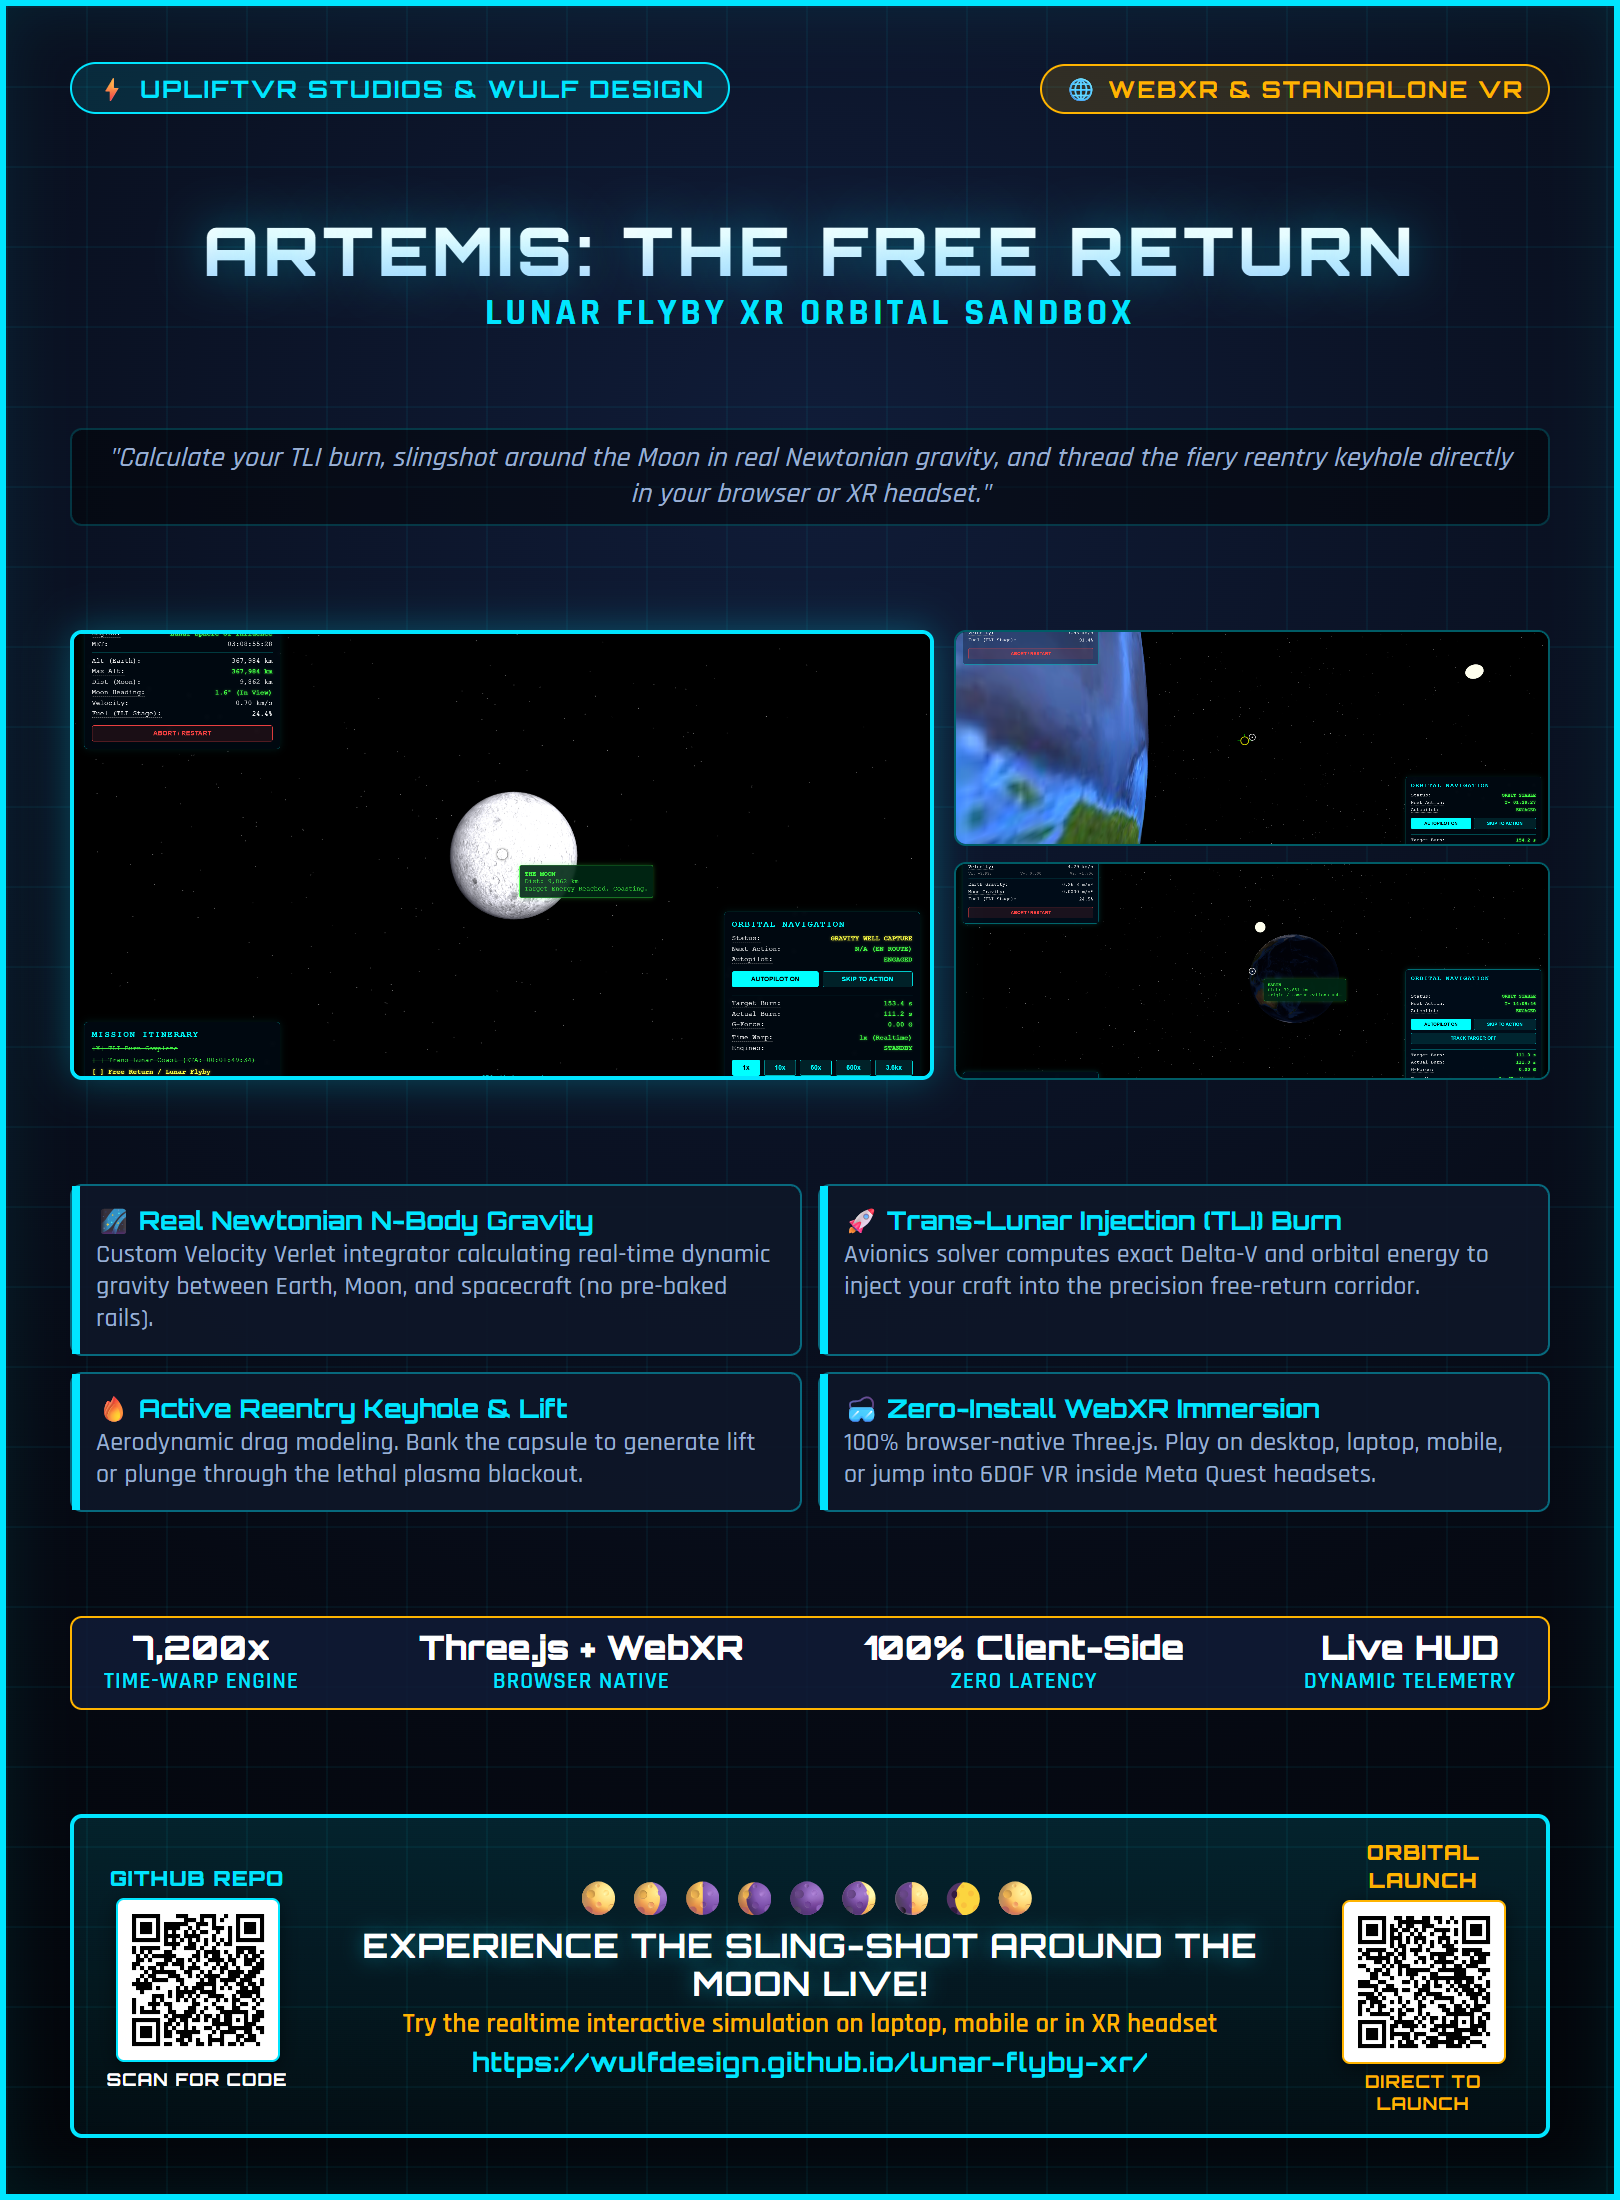
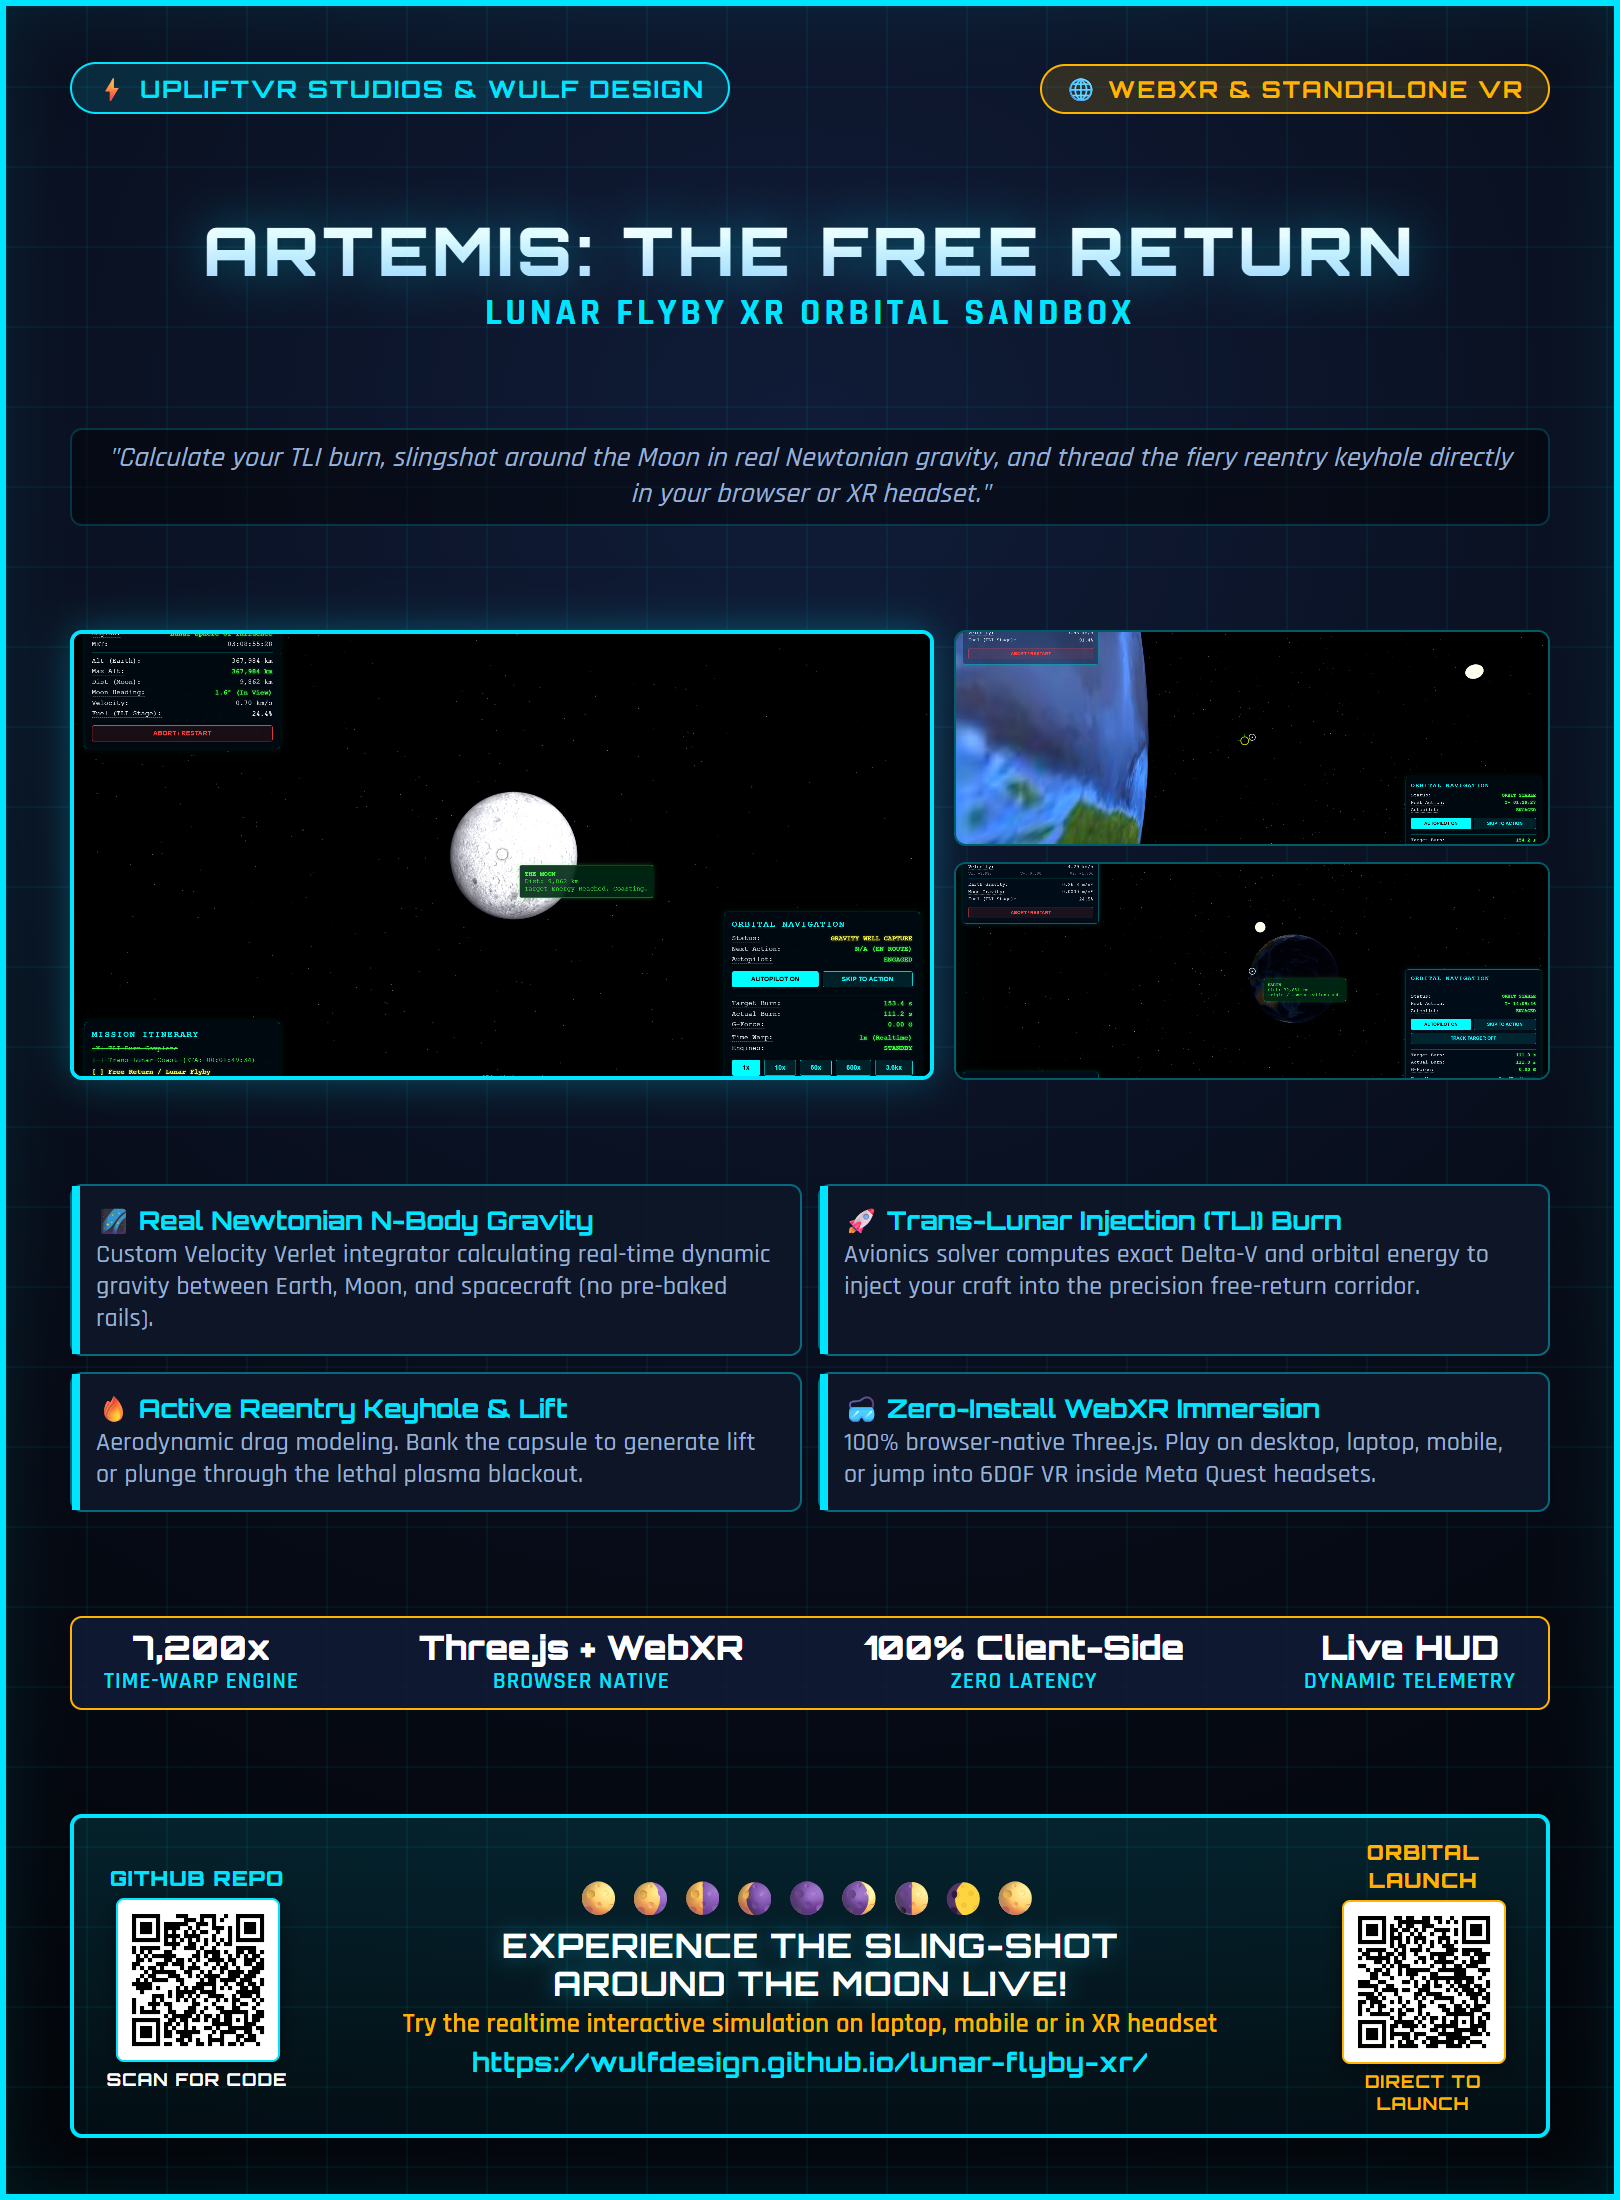
copy: Balance CTA header line break 'EXPERIENCE THE SLING-SHOT<br>AROUND THE MOON LIVE!' on 11x17 and 8.5x11 outputs

Changed region(s): [[0.216, 0.8655, 0.7716, 0.9273]]

diff --git a/print/flyer_8.5x11.html b/print/flyer_8.5x11.html
@@ -477,7 +477,7 @@
                 <!-- Center: Experience It Live CTA -->
                 <div class="cta-center">
                     <div class="moon-phases" style="font-size: 1.05rem; letter-spacing: 3px; margin-bottom: 2px;">🌕🌖🌗🌘🌑🌒🌓🌔🌕</div>
-                    <h2>EXPERIENCE THE SLING-SHOT AROUND THE MOON LIVE!</h2>
+                    <h2>EXPERIENCE THE SLING-SHOT<br>AROUND THE MOON LIVE!</h2>
                     <p>Try the realtime interactive simulation on laptop, mobile or in XR headset</p>
                     <div class="cta-url">https://wulfdesign.github.io/lunar-flyby-xr/</div>
                 </div>

diff --git a/print/poster_11x17.html b/print/poster_11x17.html
@@ -461,7 +461,7 @@
                 <!-- Center: Experience It Live CTA -->
                 <div class="cta-center">
                     <div class="moon-phases" style="font-size: 1.25rem; letter-spacing: 4px; margin-bottom: 2px;">🌕🌖🌗🌘🌑🌒🌓🌔🌕</div>
-                    <h2>EXPERIENCE THE SLING-SHOT AROUND THE MOON LIVE!</h2>
+                    <h2>EXPERIENCE THE SLING-SHOT<br>AROUND THE MOON LIVE!</h2>
                     <p>Try the realtime interactive simulation on laptop, mobile or in XR headset</p>
                     <div class="cta-url">https://wulfdesign.github.io/lunar-flyby-xr/</div>
                 </div>
